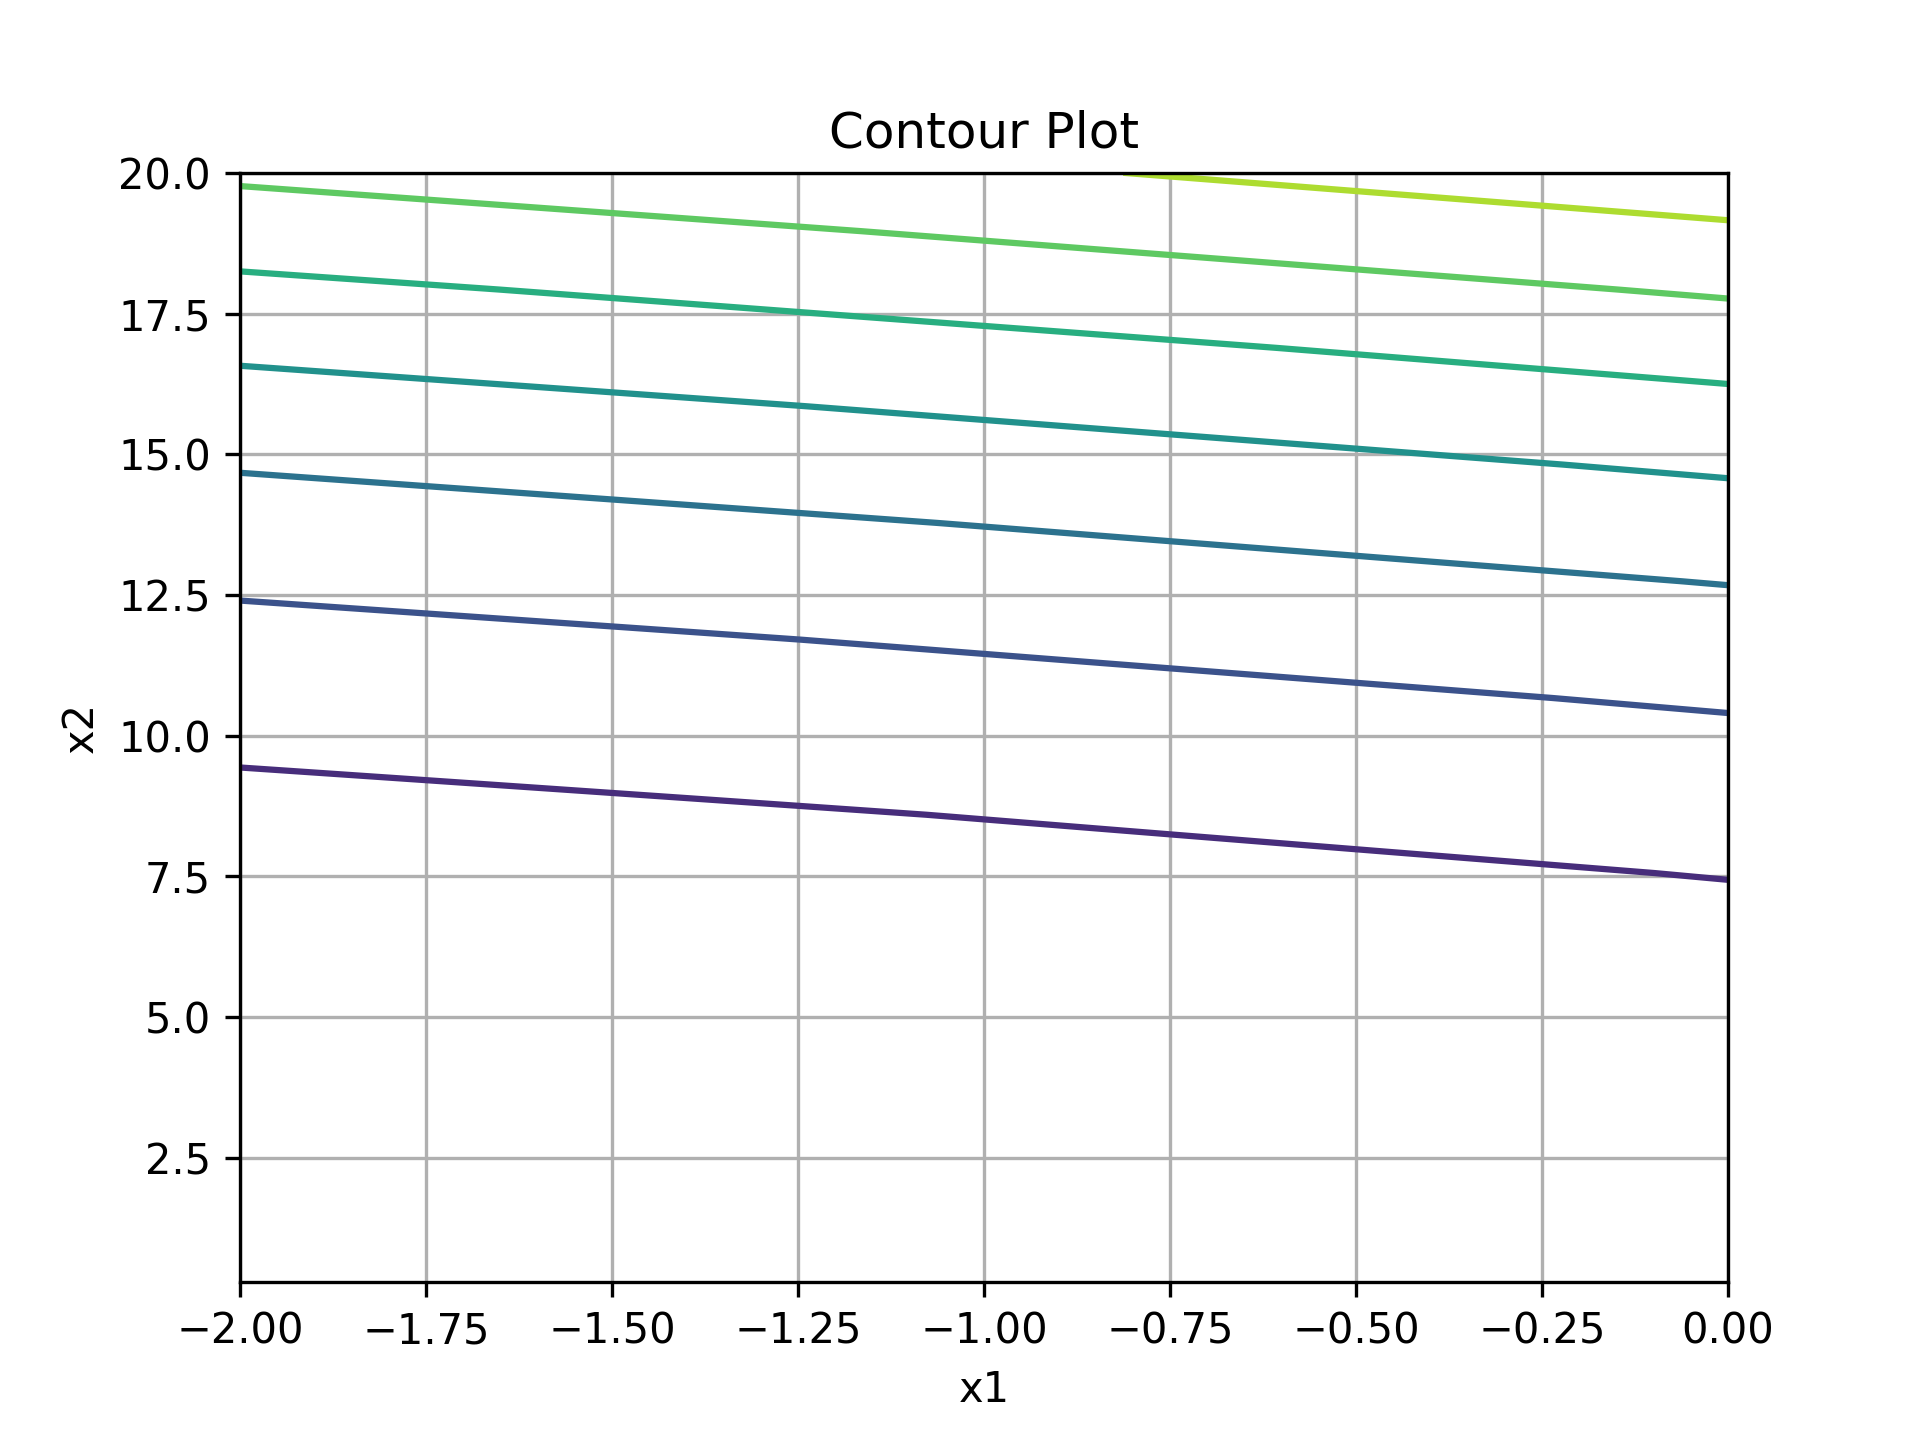
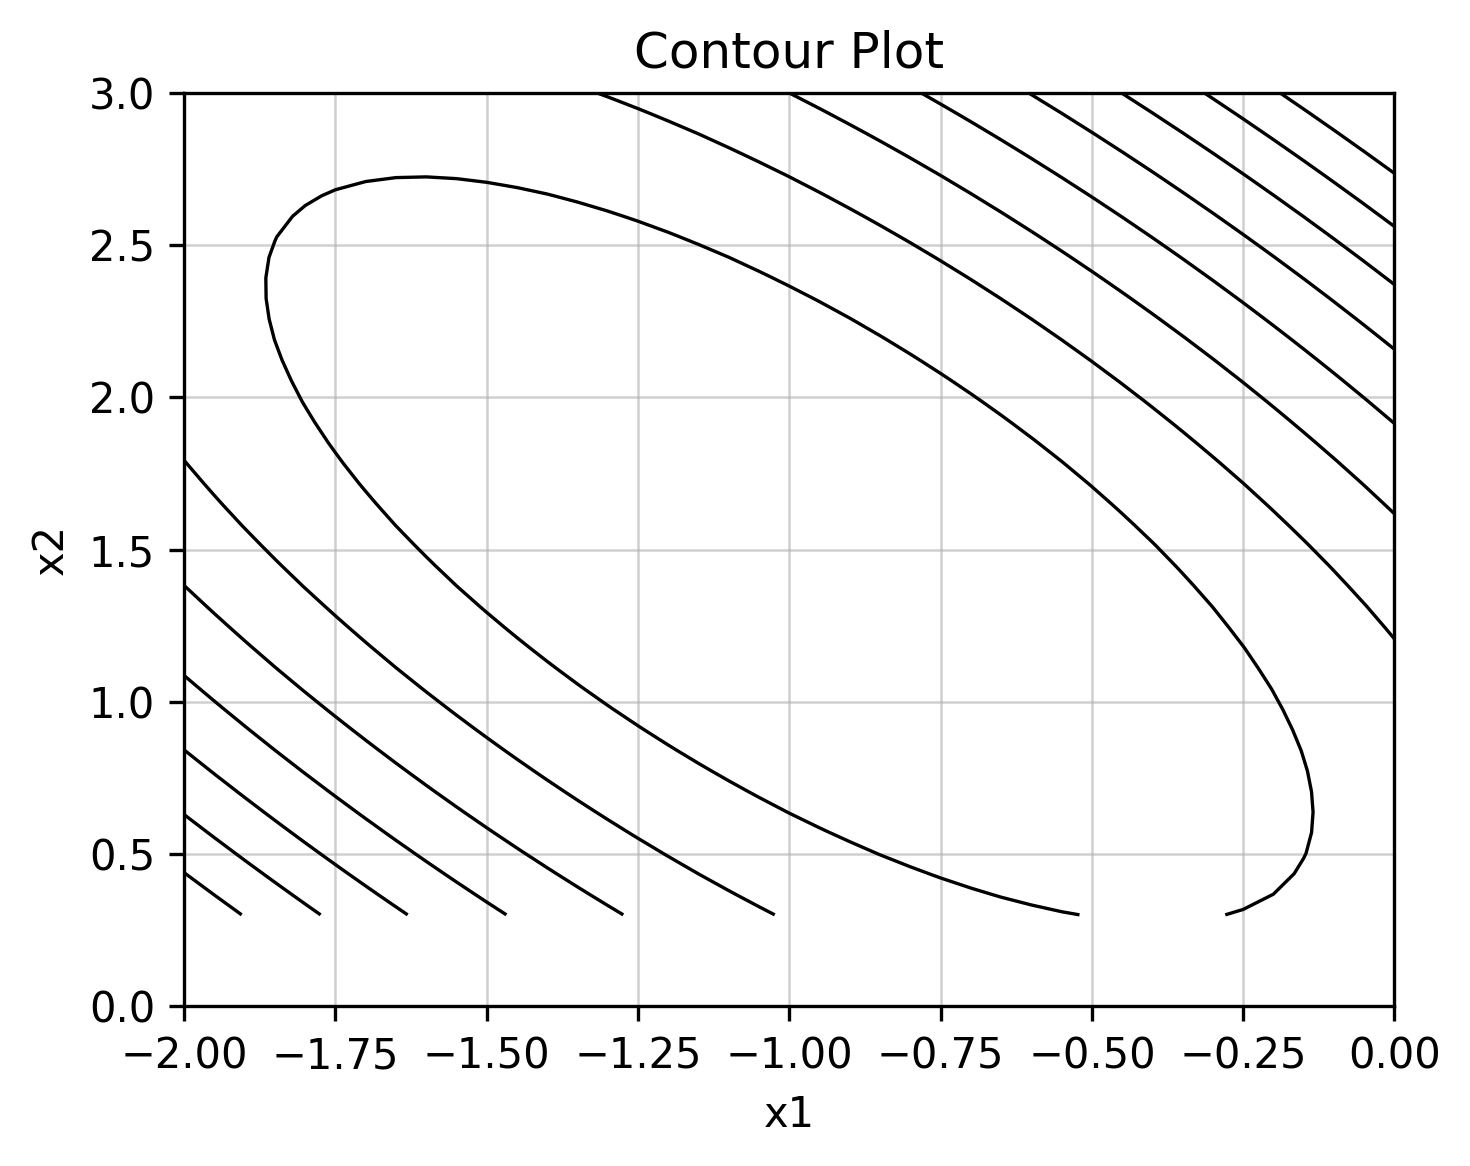
update 2dsearch.py

Changed region(s): [[0.0306, 0.0309, 0.9796, 0.988], [0.7959, 0.6484, 0.949, 0.7719], [0.7041, 0.6792, 0.7653, 0.741]]

diff --git a/Python/optimization/2dsearch.py b/Python/optimization/2dsearch.py
@@ -1,32 +1,41 @@
 import numpy as np
 import matplotlib.pyplot as plt
-from mpl_toolkits.mplot3d import Axes3D
+from mpl_toolkits.mplot3d import Axes3D  # noqa: F401
 
-# Create grid and function
-x1 = np.linspace(-2.0, 0.0, 20)
-x2 = np.linspace(0.3, 20.0, 20)
+# Define function
+def f(X, Y):
+    return 2 + X - Y + 2*X**2 + 2*X*Y + Y**2
+
+# Create grid
+x1 = np.linspace(-2.0, 0.0, 41)
+x2 = np.linspace(0.3, 3.0, 41)
 X, Y = np.meshgrid(x1, x2)
-Z = 2 + X - Y + 2*X**2 + 2*X*Y + Y**2
+Z = f(X, Y)
 
-# 3D Wireframe plot
-fig = plt.figure()
-ax = fig.add_subplot(111, projection='3d')
-ax.plot_wireframe(X, Y, Z, color='k')
-ax.set_xticks([-2, -1.5, -1.0, -0.5, 0])
-ax.set_yticks([0, 1, 2, 3])
-ax.set_xlabel('x1')
-ax.set_ylabel('x2')
-ax.set_title('Wireframe Plot')
-plt.savefig('wireframe_plot.png', dpi=300)
-plt.close(fig)
+# ---- 3D Wireframe plot ----
+fig1 = plt.figure(figsize=(5, 4))
+ax1 = fig1.add_subplot(111, projection='3d')
+ax1.plot_wireframe(X, Y, Z, rstride=2, cstride=2, color='k', linewidth=0.7)
+ax1.view_init(elev=25, azim=-135)
+ax1.set_xlim(-2.0, 0.0)
+ax1.set_ylim(0.0, 3.0)
+ax1.set_xlabel('x1')
+ax1.set_ylabel('x2')
+ax1.set_title('Wireframe Plot')
+fig1.tight_layout()
+fig1.savefig('wireframe_plot.png', dpi=300, bbox_inches='tight')
 
-# Contour plot
-fig2 = plt.figure()
+# ---- Contour plot ----
+fig2 = plt.figure(figsize=(5, 4))
 ax2 = fig2.add_subplot(111)
-ax2.contour(X, Y, Z)
+levels = np.linspace(Z.min(), Z.min() + 6.0, 9)
+ax2.contour(X, Y, Z, levels=levels, colors='k', linewidths=0.8)
+ax2.set_xlim(-2.0, 0.0)
+ax2.set_ylim(0.0, 3.0)
 ax2.set_xlabel('x1')
 ax2.set_ylabel('x2')
-ax2.grid(True)
 ax2.set_title('Contour Plot')
-plt.savefig('contour_plot.png', dpi=300)
-plt.close(fig2)
+ax2.grid(True, linewidth=0.6, alpha=0.6)
+fig2.tight_layout()
+fig2.savefig('contour_plot.png', dpi=300, bbox_inches='tight')
+plt.show()
